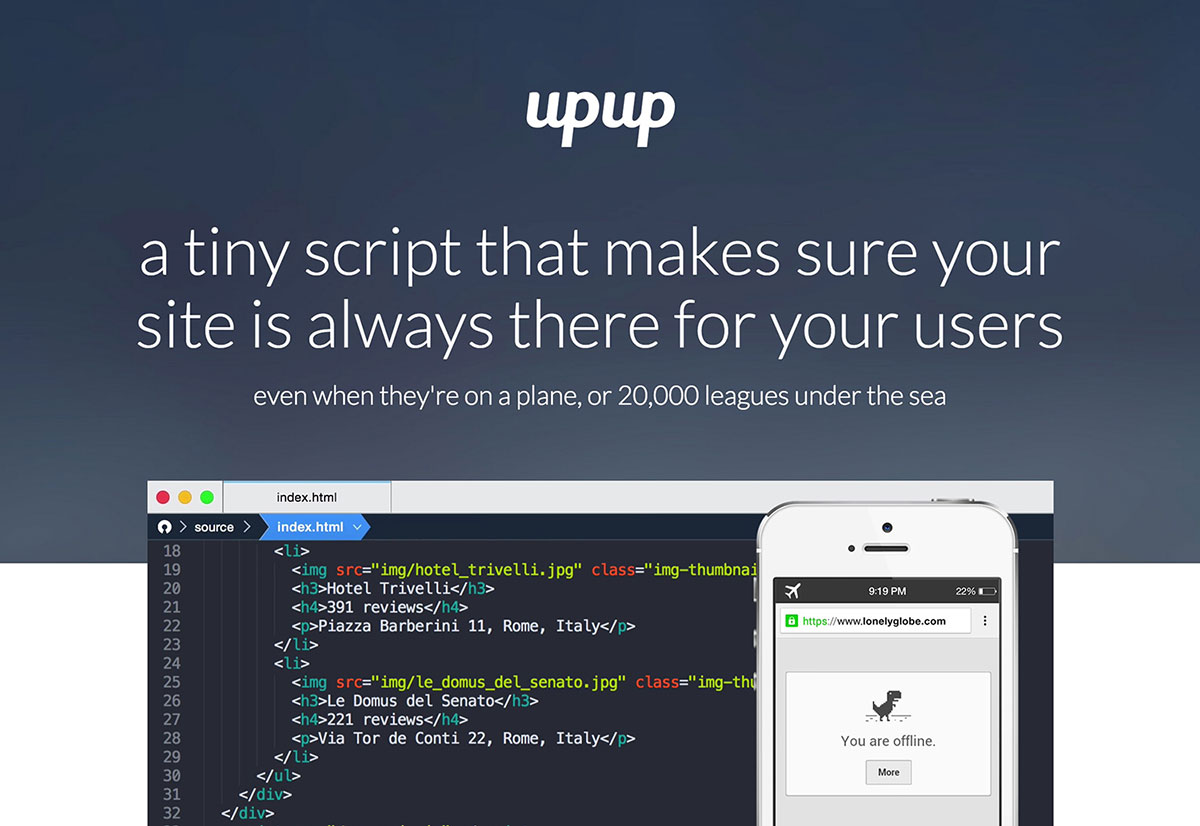
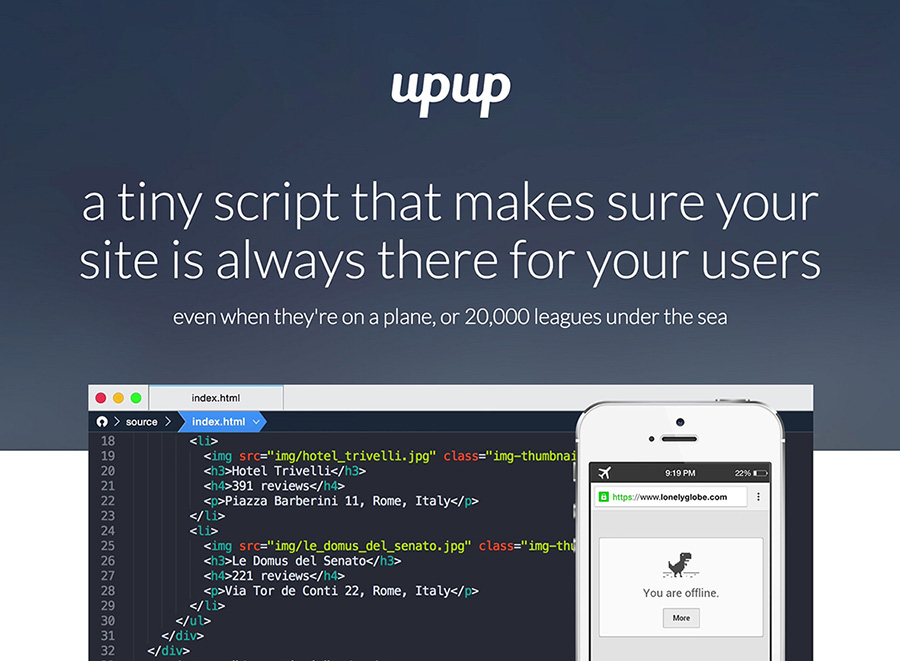
Demo site: Updated share screenshot

diff --git a/demo/getting-started-with-offline-first.html b/demo/getting-started-with-offline-first.html
@@ -6,7 +6,7 @@
   <meta name=viewport content="width=device-width, initial-scale=1">
   <title>Getting Started with Offline First using UpUp Tutorial</title>
   <meta name="description" content="A quick tutorial on building Offline First sites, and making your existing sites offline-ready." />
-  <meta property="og:image" content="https://www.talater.com/upup/img/upup_logo.jpg"/>
+  <meta property="og:image" content="https://www.talater.com/upup/img/upup-screenshot.jpg"/>
   <meta property="og:title" content="UpUp - Offline First in 1 line of Javascript"/>
   <meta property="og:description" content="Let users visit your site, even when they're on a plane over the Atlantic, or 20,000 leagues under the sea. #OfflineFirst"/>
   <meta property="og:url" content="http://upup.rocks"/>

diff --git a/demo/index.html b/demo/index.html
@@ -6,7 +6,7 @@
   <meta name=viewport content="width=device-width, initial-scale=1">
   <title>UpUp - The Offline First Library</title>
   <meta name="description" content="A JavaScript library that makes sure your users can always access your site, even when offline." />
-  <meta property="og:image" content="https://www.talater.com/upup/img/upup_logo.jpg"/>
+  <meta property="og:image" content="https://www.talater.com/upup/img/upup-screenshot.jpg"/>
   <meta property="og:title" content="UpUp - Offline First in 1 line of Javascript"/>
   <meta property="og:description" content="Let users visit your site, even when they're on a plane over the Atlantic, or 20,000 leagues under the sea. #OfflineFirst"/>
   <meta property="og:url" content="http://upup.rocks"/>
